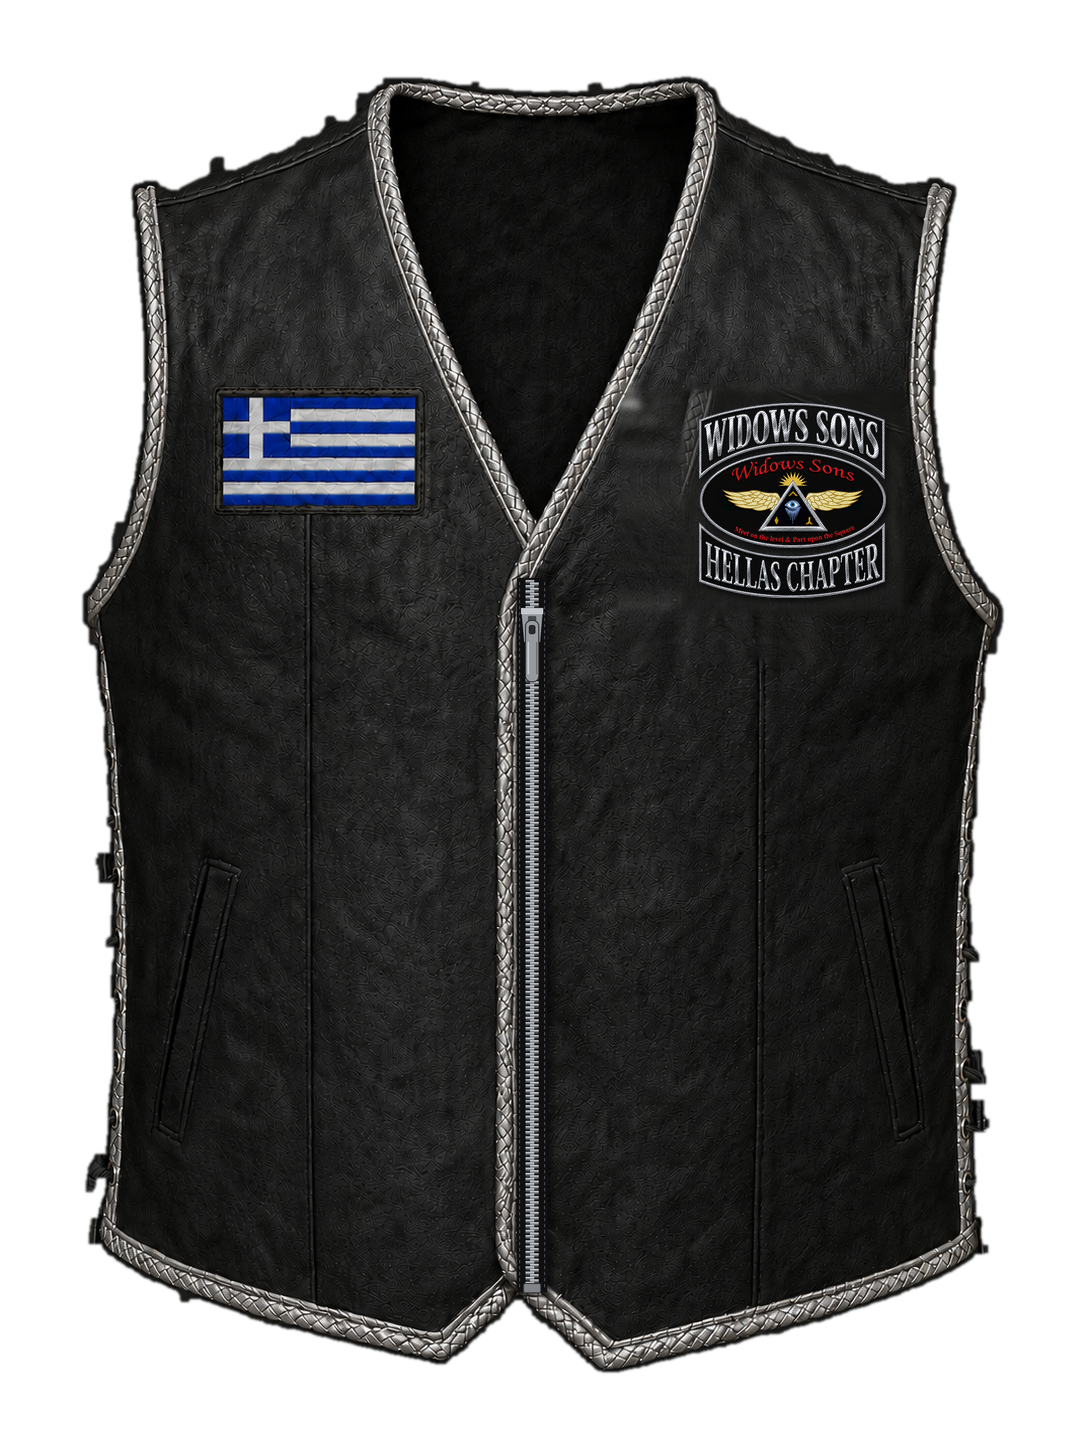
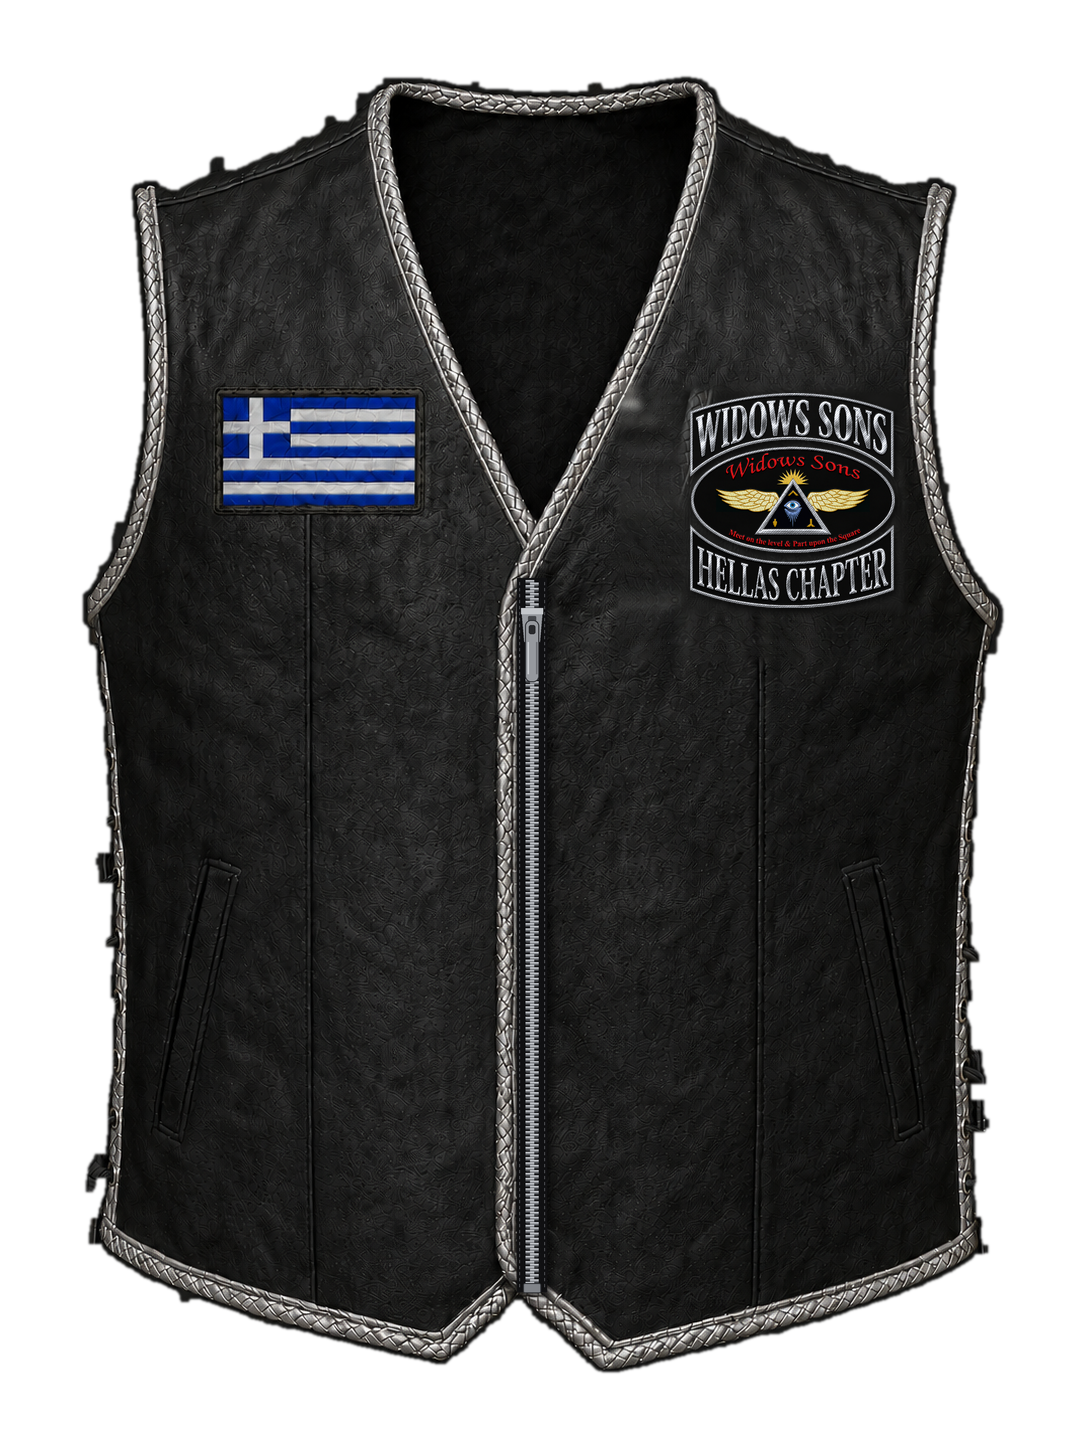
Front colours (n.7) at 10 x 10.5 cm
The front colours patch is enlarged from 9.5 cm to 10 cm wide by 10.5 cm
tall (205 x 215 px at the photograph's 20.5 px/cm), on both the silver
and the standard trim. Both vests are rebuilt from the photographs as
they stood before the patch was first sewn on, so no edge of the smaller
patch remains. Its number moves to the new top-left corner, the
specifications read 10 x 10.5 cm, and the images carry a new cache stamp.

Claude-Session: https://claude.ai/code/session_01Ps87Ktm1jtAFeFkUS2SjFv

Changed region(s): [[0.6381, 0.2486, 0.8204, 0.4351]]

diff --git a/index.html b/index.html
@@ -93,12 +93,12 @@
           <li value="7">Front colours &mdash; WIDOWS SONS &middot; oval &middot; HELLAS CHAPTER</li><li value="10">Size tag</li>
         </ol>
       </div>
-      <div class="specs"><div><span>Flag</span><strong>11 × 6 cm</strong></div><div><span>Name patches</span><strong>11 × 3 cm</strong></div><div><span>Front colours</span><strong>9.5 × 9.5 cm</strong></div><div><span>Vest size</span><strong>XL · 58 cm</strong></div></div>
+      <div class="specs"><div><span>Flag</span><strong>11 × 6 cm</strong></div><div><span>Name patches</span><strong>11 × 3 cm</strong></div><div><span>Front colours</span><strong>10 × 10.5 cm</strong></div><div><span>Vest size</span><strong>XL · 58 cm</strong></div></div>
     </aside>
     <main>
       <header><div><p class="eyebrow">LIVE PREVIEW</p><h2 id="heading">President</h2></div><div class="badge active" id="trimBadge">Silver trim</div></header>
       <div class="stage"><div class="vest">
-        <img id="vestImage" src="vest-silver.png?v=g1" alt="Widows Sons Hellas Chapter leather vest">
+        <img id="vestImage" src="vest-silver.png?v=p10" alt="Widows Sons Hellas Chapter leather vest">
         <div class="size" id="sizeTag">SIZE<strong>XL</strong></div>
         <div class="patch rank" id="rankPatch">PRESIDENT</div>
         <div class="patch road" id="roadPatch">BUILDSMITH</div>
@@ -173,7 +173,7 @@
       {n:2,el:'rankPatch'},{n:3,el:'roadPatch'},{n:4,el:'founderPatch'},{n:5,el:'honoraryPatch'},
       // n.6, the Chapter roundel, is taken off the vest; its number is kept free
       // so the numbers after it do not move.
-      {n:7,at:[.644,.278]},                 // front colours, one patch 9.5 x 9.5 cm
+      {n:7,at:[.636,.271]},                 // front colours, one patch 10 x 10.5 cm
       // 8 and 9 (the small oval and bottom rocker) are now part of n.7
       {n:10,el:'sizeTag'}
     ];
@@ -234,7 +234,7 @@
       el.style.fontSize=best.size.toFixed(2)+'px';
     }
     function refitPatches(){fitPatchFont(hp);fitRank(rp,rank.value);matchPatchFonts(fp,rop);stackLeft()}
-    function updateRank(){const value=rank.value,silver=value==='President'||value==='Grand Master';fitRank(rp,value);document.getElementById('heading').textContent=value;vest.src=silver?'vest-silver.png?v=g1':'vest-standard.png?v=g1';document.getElementById('silverNote').classList.toggle('hidden',!silver);const badge=document.getElementById('trimBadge');badge.textContent=silver?'Silver trim':'Standard trim';badge.classList.toggle('active',silver);if(value==='Grand Master'){type.value='Most Honorary';hp.textContent='MOST HONORARY'}fitPatchFont(hp)}
+    function updateRank(){const value=rank.value,silver=value==='President'||value==='Grand Master';fitRank(rp,value);document.getElementById('heading').textContent=value;vest.src=silver?'vest-silver.png?v=p10':'vest-standard.png?v=p10';document.getElementById('silverNote').classList.toggle('hidden',!silver);const badge=document.getElementById('trimBadge');badge.textContent=silver?'Silver trim':'Standard trim';badge.classList.toggle('active',silver);if(value==='Grand Master'){type.value='Most Honorary';hp.textContent='MOST HONORARY'}fitPatchFont(hp)}
     rank.addEventListener('change',updateRank);
     road.addEventListener('input',()=>{road.value=road.value.toUpperCase().replace(/[^A-Z]/g,'').slice(0,10);rop.textContent=road.value||'ROAD NAME';matchPatchFonts(fp,rop);document.getElementById('count').textContent=road.value.length+'/10'});
     type.addEventListener('change',()=>{hp.textContent=type.value.toUpperCase();fitPatchFont(hp)});
